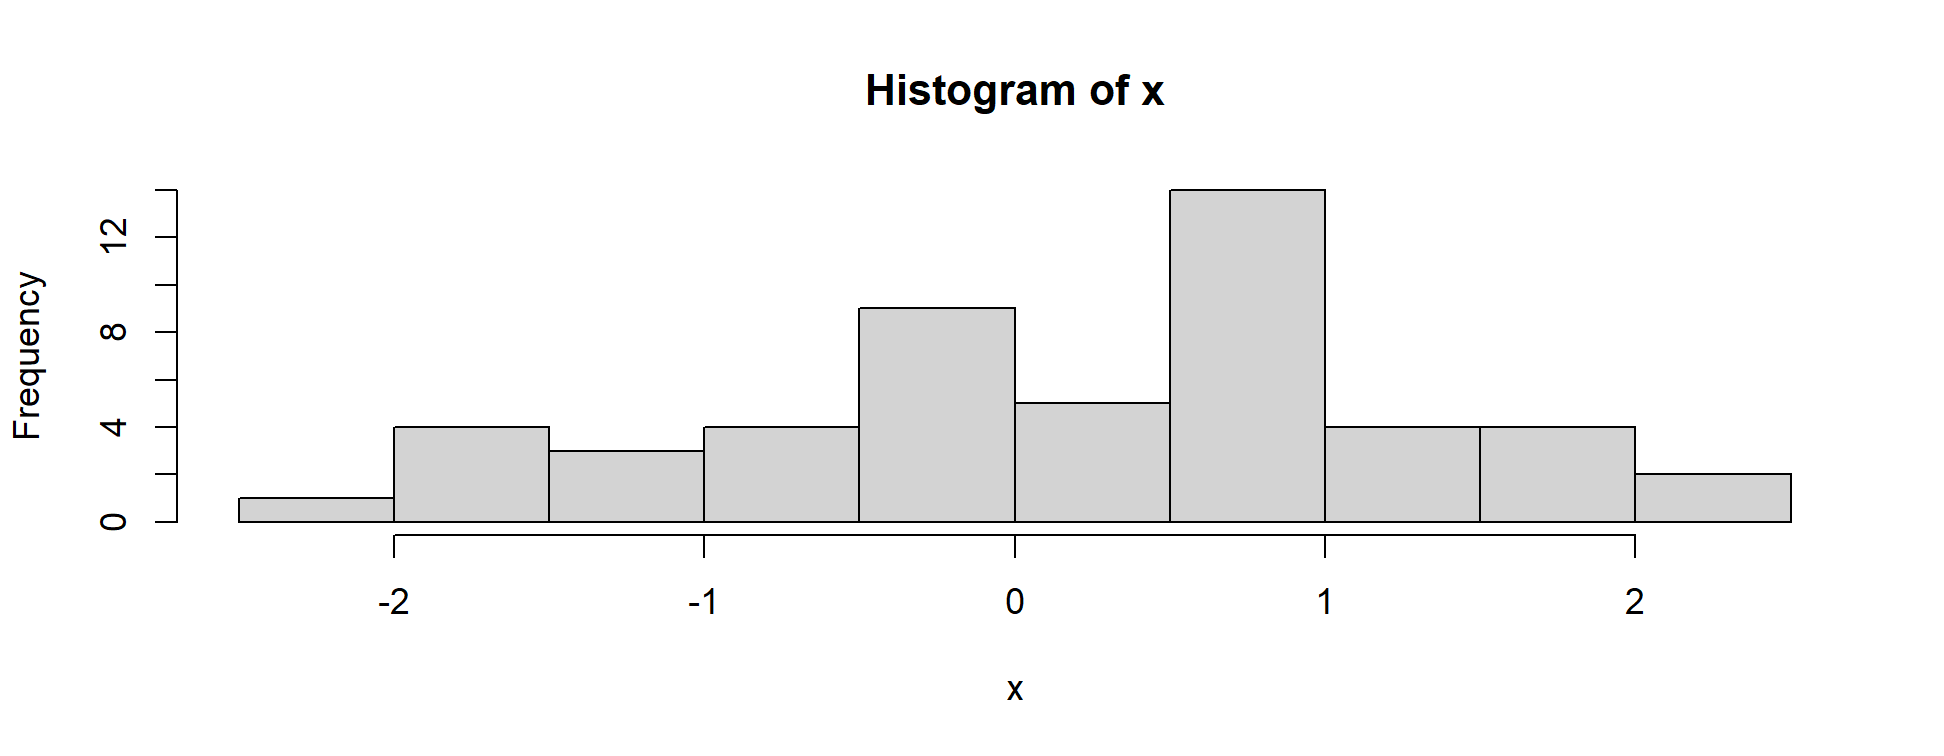
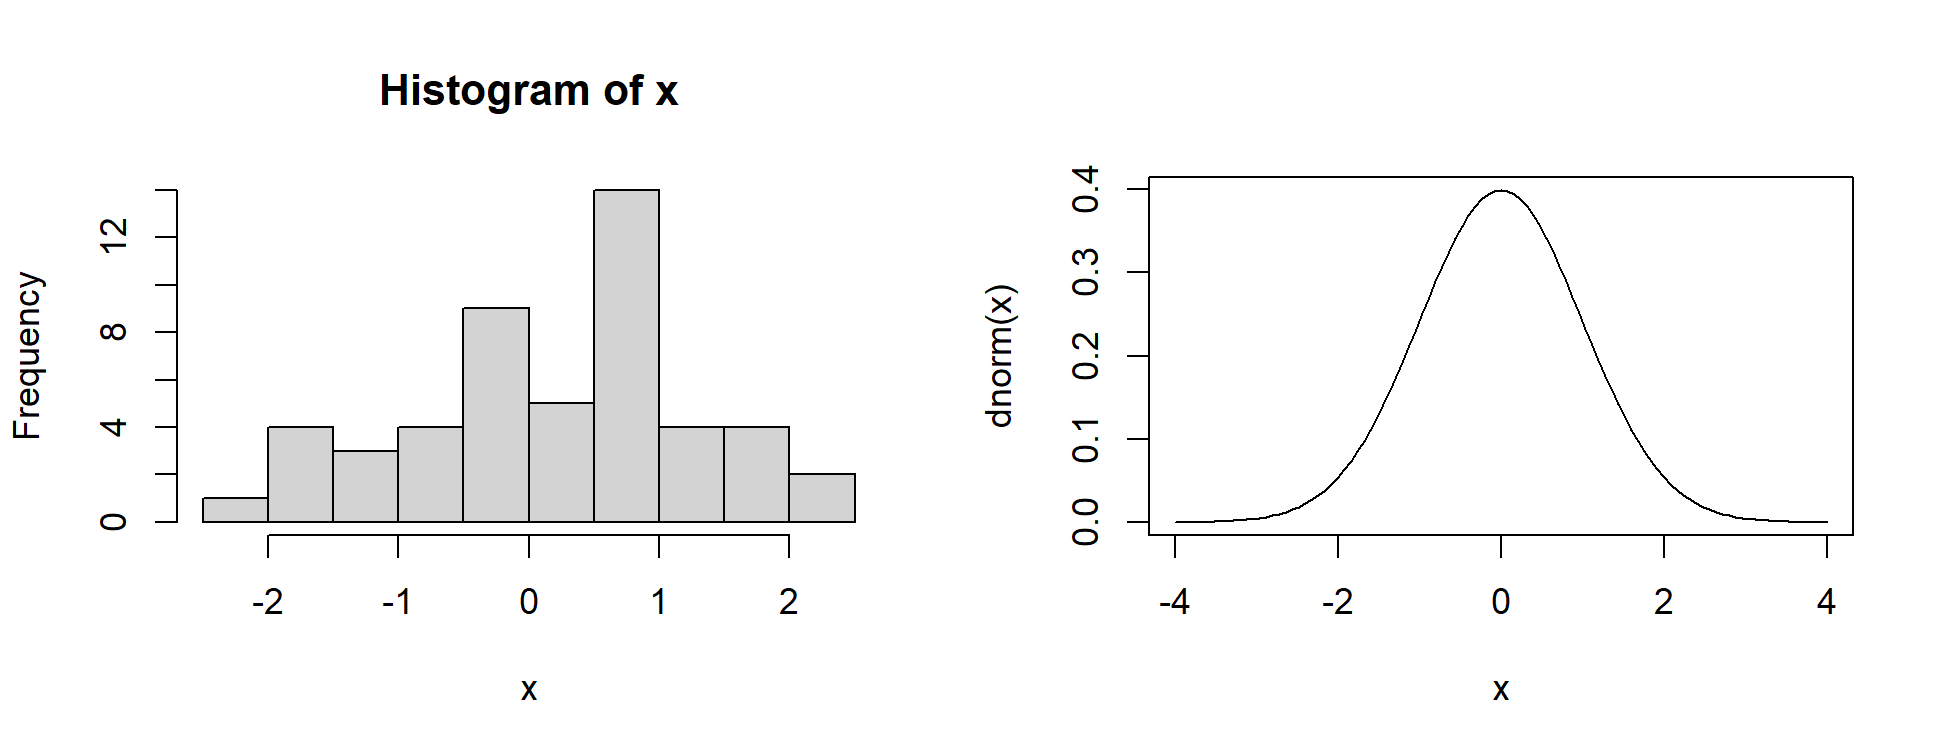
add description for cases

diff --git a/sesi1.html b/sesi1.html
@@ -105,6 +105,11 @@ class: middle, center
 variously attributed to Benjamin Disraeli, Mark Twain etc.
 
 ---
+# Kasus 1 = simulasi data yang terdistribusi normal, t, chi atau F
+- Dengan bantuan program komputer ini sangat mudah dilakukan
+    + (juga untuk membuat data riset abal-abal)
+- Di dalam praktek data riset yang kita peroleh seringkali tidak "mulus" seperti di dalam teori.
+
 
 ```r
 set.seed(12345)
@@ -139,6 +144,7 @@ sd(x)
 ```
 ## [1] 1.096586
 ```
+---
 
 ```r
 quantile(x)
@@ -148,31 +154,34 @@ quantile(x)
 ##         0%        25%        50%        75%       100% 
 ## -2.3803581 -0.4746098  0.4309081  0.8156432  2.1968335
 ```
----
-
-```r
-summary(x)
-```
-
-```
-##    Min. 1st Qu.  Median    Mean 3rd Qu.    Max. 
-## -2.3804 -0.4746  0.4309  0.1796  0.8156  2.1968
-```
 
 
 ```r
+par(mfrow=c(1,2))
 hist(x)
+curve(dnorm(x), from=-4, to=4)
 ```
 
 &lt;img src="sesi1_files/figure-html/unnamed-chunk-5-1.png" width="100%" /&gt;
 ---
+# Kasus 2 = [CPS1985: Determinants of Wages Data](https://rdrr.io/cran/AER/man/CPS1985.html)
 
-```r
-curve(dnorm(x), from=-4, to=4)
-```
-
-&lt;img src="sesi1_files/figure-html/unnamed-chunk-6-1.png" width="100%" /&gt;
+Deskripsi data:
+-  Data kerat lintang (*cross-section*) yang berasal dari survei populasi Mei 1985 oleh badan statistik AS.
+- Data frame terdiri dari 534 pengamatan pada 11 variabel:
+    + wage (in dollars per hour).
+    + education (Number of years of education).
+    + experience (Number of years of potential work experience (age - education - 6)).
+    + age (Age in years).
+    + ethnicity (Factor with levels "cauc", "hispanic", "other").
+    + region (Factor. Does the individual live in the South?)
+    + gender (Factor indicating gender.
+    + occupation (Factor with levels "worker" (tradesperson or assembly line worker), "technical" (technical or professional worker), "services" (service worker), "office" (office and clerical worker), "sales" (sales worker), "management" (management and administration).
+    + sector (Factor with levels "manufacturing" (manufacturing or mining), "construction", "other").
+    + union (Factor. Does the individual work on a union job?)
+    + married (Factor. Is the individual married?)
 ---
+## Data bisa dipanggil dari AER package:
 
 ```r
 library(AER)
@@ -268,7 +277,7 @@ hist(log(wage), freq = FALSE)
 lines(density(log(wage)), col = 4)
 ```
 
-&lt;img src="sesi1_files/figure-html/unnamed-chunk-10-1.png" width="100%" /&gt;
+&lt;img src="sesi1_files/figure-html/unnamed-chunk-9-1.png" width="100%" /&gt;
 ---
 
 ```r
@@ -298,7 +307,7 @@ barplot(pekerjaan)
 pie(pekerjaan)
 ```
 
-&lt;img src="sesi1_files/figure-html/unnamed-chunk-12-1.png" width="100%" /&gt;
+&lt;img src="sesi1_files/figure-html/unnamed-chunk-11-1.png" width="100%" /&gt;
 ---
 
 ```r
@@ -317,7 +326,7 @@ par(mfrow=c(1,1))
 plot(gender ~ occupation, data = CPS1985)
 ```
 
-&lt;img src="sesi1_files/figure-html/unnamed-chunk-13-1.png" width="100%" /&gt;
+&lt;img src="sesi1_files/figure-html/unnamed-chunk-12-1.png" width="100%" /&gt;
 ---
 class: inverse, right, bottom
 
